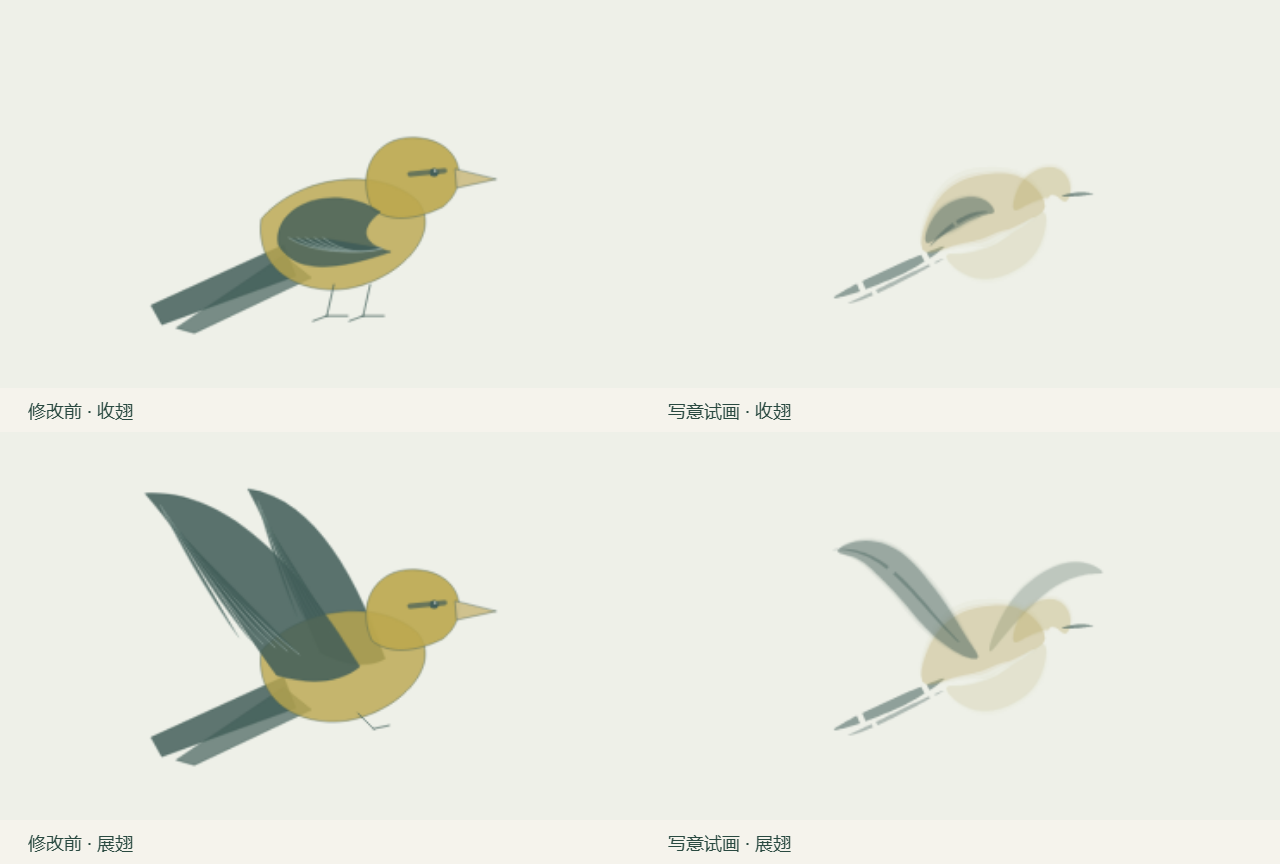
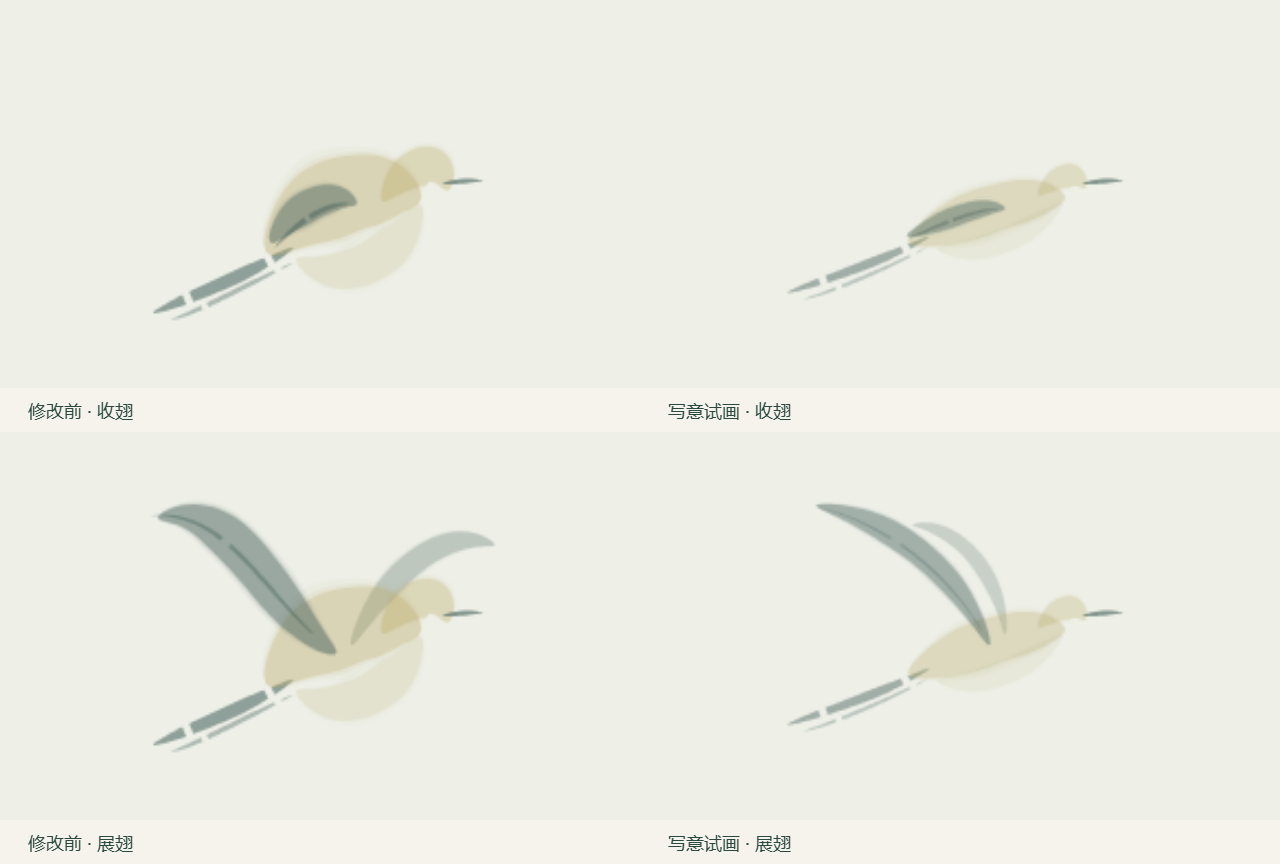
Slim ink bird and sweep wings back from fixed shoulders

diff --git a/experiments/imagery-library/drawing/tools/oriole.js b/experiments/imagery-library/drawing/tools/oriole.js
@@ -34,31 +34,33 @@ window.PoemDrawing.register({
       stroke(v,width,color,opacity*.62,salt+.6);
     }
     function wing(flap,far=false){
-      p.push();p.rotate(flap);
-      if(far)wash([2,-8,15,-38,40,-65,65,-56],5.8,ctx.palette.ink,80,state.phase);
+      // Both wings sweep back from fixed shoulders. Rotate at the attachment,
+      // rather than swinging two long strokes around the body's center.
+      p.push();p.translate(far?8:1,far?-13:-8);p.rotate(flap);
+      if(far)wash([0,0,-3,-26,-23,-49,-44,-48],3.6,ctx.palette.ink,62,state.phase);
       else{
-        wash([-5,-4,-34,-20,-53,-73,-88,-62],10.2,ctx.palette.ink,153,state.phase+1);
-        stroke([-12,-9,-40,-32,-58,-67,-91,-63],1.05,ctx.palette.ink,105,state.phase+2,true);
+        wash([0,0,-16,-33,-46,-55,-81,-60],6.2,ctx.palette.ink,133,state.phase+1);
+        stroke([-1,-2,-19,-32,-49,-53,-82,-60],.65,ctx.palette.ink,70,state.phase+2,true);
       }
       p.pop();
     }
     function draw(){
       p.push();p.translate(W/2,200);p.scale(ctx.options.facing==='left'?-state.scale:state.scale,state.scale);p.rotate(state.gesture);
       const gold=ctx.settings.palette==='tender'?'#C4AB83':'#BDAE6B',ink=ctx.palette.ink;
-      const moving=ctx.options.pose==='spread'&&ctx.options.motion==='flap',flap=moving?Math.sin(ctx.time*4+state.phase)*.2:0;
+      const moving=ctx.options.pose==='spread'&&ctx.options.motion==='flap',flap=moving?Math.sin(ctx.time*4+state.phase)*.12:0;
       // Tail tapers into paper rather than ending in two outlined rectangles.
-      stroke([-24,9,-43,21,-64*state.tail,32,-83*state.tail,41],3.2,ink,140,state.phase,true);
-      stroke([-24,16,-45,27,-62*state.tail,39,-75*state.tail,44],1.25,ink,96,state.phase+1,true);
+      stroke([-26,4,-45,15,-66*state.tail,24,-86*state.tail,32],2.2,ink,115,state.phase,true);
+      stroke([-27,9,-46,20,-65*state.tail,30,-79*state.tail,35],.9,ink,75,state.phase+1,true);
       if(ctx.options.pose==='spread')wing(-flap*.6,true);
       // Head is implied by the rising end of the same wash, without a circle.
-      wash([-35,12,-16,-17,11,-24,33,-15],19,gold,119,state.phase);
-      wash([-22,14,1,27,25,10,33,-13],10,gold,55,state.phase+1);
-      wash([16,-14,27,-34,43,-36,45,-20],9,gold,112,state.phase+2);
+      wash([-35,7,-14,-4,17,-18,35,-16],11.5,gold,96,state.phase);
+      wash([-22,9,-3,13,20,1,34,-14],5.5,gold,32,state.phase+1);
+      wash([23,-17,32,-28,40,-29,44,-21],5.5,gold,86,state.phase+2);
       if(ctx.options.pose==='spread')wing(flap);
       else{
-        wash([4,-12,-8,-20,-27,-7,-34,7],7.5,ink,146,state.phase+2);
-        stroke([1,-12,-11,-12,-24,-1,-32,9],1.3,ink,118,state.phase+3,true);
-        if(ctx.settings.density>.65)stroke([-2,-13,-13,-10,-23,0,-31,6],.65,ink,58,state.phase+4,true);
+        wash([8,-10,-3,-13,-22,-2,-36,4],4.5,ink,128,state.phase+2);
+        stroke([5,-10,-7,-9,-24,0,-35,5],.9,ink,90,state.phase+3,true);
+        if(ctx.settings.density>.65)stroke([3,-10,-10,-8,-24,1,-34,4],.45,ink,45,state.phase+4,true);
       }
       stroke([43,-23,49,-24,54,-25,61,-25],1.1,ink,163,state.phase+3);
       p.pop();

diff --git a/experiments/imagery-library/progress-data.js b/experiments/imagery-library/progress-data.js
@@ -374,7 +374,7 @@ window.PoemProgress = {
         "tools": [
           "oriole"
         ],
-        "available": "单只淡墨莺意：头身融为浅黄墨面，几笔提示翼、尾与喙，不刻画眼、足或逐根羽毛；收翅、展翅、朝向与微动可选。",
+        "available": "单只淡墨莺意：收长的浅黄墨面、后掠细翼与几笔尾喙；不刻画眼、足或逐根羽毛，收翅、展翅、朝向与肩部微动可选。",
         "remaining": "待审美与形态辨识确认；不是全部古诗莺的物种鉴定。尚无鸟鸣、群体数量、栖枝或跨物体作用。",
         "needs_context": false,
         "presets": {

diff --git a/experiments/imagery-library/意象目录.md b/experiments/imagery-library/意象目录.md
@@ -84,7 +84,7 @@
 | 草 | 2,128 | 基础可画 | 固定草簇、细长叶片与局部风响应。 [草 · 露 · 霜](index.html?tool=grass#grass) | 待审美确认；地表扩展与其他草种尚未制作。 | 形态：草叶簇与地表组织；不以通用枝树替代。 |
 | 霜 | 1,541 | 基础可画 | 共用静止霜纹与结晶笔触，支持草叶、叶面、枝条、石面和无载体局部试画；不作为飘雪。 [露 · 霜附着](index.html?tool=surface-weather&surface=frost&carrier=branch#surface-weather)、[草 · 露 · 霜](index.html?tool=grass&surface=frost#grass) | 待审美确认；任意地表和其他载体尚未支持，未从诗句自动匹配附着对象，也无霜层形成过程。 | 附着：附着覆层，不默认持续飘落。 |
 | 竹 | 1,480 | 基础可画 | 竹竿分节、侧枝与窄叶簇，叶簇响应风。 [竹](index.html?tool=bamboo#bamboo) | 待审美与形态辨识确认；尚未区分竹种或生长过程。 | 变体：节、竿、窄叶需要独立规则，可共享局部枝叶方法。 |
-| 莺 | 1,435 | 基础可画 | 单只淡墨莺意：头身融为浅黄墨面，几笔提示翼、尾与喙，不刻画眼、足或逐根羽毛；收翅、展翅、朝向与微动可选。 [莺形](index.html?tool=oriole&pose=folded&motion=still#oriole) | 待审美与形态辨识确认；不是全部古诗莺的物种鉴定。尚无鸟鸣、群体数量、栖枝或跨物体作用。 | 变体：共用鸟体与运动骨架，保留物种名；不靠标签宣称已辨认。 |
+| 莺 | 1,435 | 基础可画 | 单只淡墨莺意：收长的浅黄墨面、后掠细翼与几笔尾喙；不刻画眼、足或逐根羽毛，收翅、展翅、朝向与肩部微动可选。 [莺形](index.html?tool=oriole&pose=folded&motion=still#oriole) | 待审美与形态辨识确认；不是全部古诗莺的物种鉴定。尚无鸟鸣、群体数量、栖枝或跨物体作用。 | 变体：共用鸟体与运动骨架，保留物种名；不靠标签宣称已辨认。 |
 | 兰 | 1,316 | 待制作 | 已有通用花瓣方法可复用，但尚无该花种的专门结构。  | 花与长叶可分层组织；不直接等同于草。 | 组合：花与长叶可分层组织；不直接等同于草。 |
 | 马 | 1,280 | 待制作 | 尚无该条目的专用形态试画。  | 需要独立身体结构和姿态，暂缓专门绘制。 | 形态：需要独立身体结构和姿态，暂缓专门绘制。 |
 | 舟 | 1,250 | 基础可画 | 独立船体、轻微起伏、船首船尾与甲板锚点。 [舟](index.html?tool=boat#boat) | 待审美确认；帆、桨、人物及真正承载未实现。 | 合并：与船共用基础舟船单元；大小、用途、帆桨按原文和艺术选择细化。 |

diff --git a/experiments/imagery-library/drawing/README.md b/experiments/imagery-library/drawing/README.md
@@ -108,7 +108,9 @@ flowchart TD
 
 `oriole.js` 为本项目编写，不复制外部轮廓或鸟类图片。初版圆头、眼、足和逐根羽线过于具体，按用户反馈改为淡墨莺意：头身融为浅黄墨面，深翼、尾和喙只用几笔提示，省略眼、足、完整外轮廓和细羽，保留纸面间隙。收翅／展翅、左右朝向与展翅局部微动仍可选择。这是姿态与墨色的艺术约定，不是物种鉴定，仍待用户审美确认。
 
-墨面由局部曲线与渐细笔触生成，几何只在固定种子重置时更新；静止模式不随帧随机抖动。对照图见 `../oriole-style-comparison.png`，左为提交 `ac9c929` 的初版，右为当前试画；同一种子、配色与视图尺度。`compare-study.mjs oriole ac9c929` 可重建该本地代码对照，无模型调用。
+墨面由局部曲线与渐细笔触生成，几何只在固定种子重置时更新；静止模式不随帧随机抖动。用户继续反馈偏胖、展翅奇怪后，头身墨面收窄、腹部叠色减淡；两翼从各自肩部向后掠，近翼略长、远翼短而淡，微动以肩部为转轴并缩小幅度，不绕躯干中心摆动。
+
+对照图见 `../oriole-style-comparison.png`，左为提交 `c3c6164` 的上一版淡墨画法，右为当前收瘦、调整翼姿后的试画；同一种子、配色与视图尺度。`compare-study.mjs oriole c3c6164` 可重建该本地代码对照，无模型调用。
 
 主体固定一只，不自动加栖枝、同伴或鸣声，改变疏密不增减鸟数。默认收翅静止；微动只在显式展翅与微动同时选中时生效，是观看试验，不是完整飞行动力学。
 

diff --git a/experiments/imagery-library/progress-changelog.md b/experiments/imagery-library/progress-changelog.md
@@ -1,5 +1,11 @@
 # 本轮意象扩展记录
 
+## 2026-10-19：莺身收瘦、双翼后掠
+
+按“有点胖，稍微瘦一点轻盈一点，展翅的翅膀有点奇怪”的反馈，缩窄头身与腹部墨面、减轻叠色，尾笔收细；两翼改从肩部向后掠，近翼稍长、远翼短而淡，局部微动绕肩部旋转并减小幅度。没有添回眼、足和羽毛细节，工具与进度分类数量不变。
+
+当前 `oriole-style-comparison.png` 左侧为上一版淡墨画法 `c3c6164`，右侧为本次修改，保持同一种子、配色与视图尺度。代码为本项目编写，无外部下载或模型调用。
+
 ## 2026-10-19：莺形收为淡墨试画
 
 按“莺也太具体了，写意一点”的反馈，省略圆头硬边、眼和足、逐根羽线及完整外轮廓；头身融为浅黄墨面，用几笔深翼、尾、喙提示姿态，保留纸面间隙。收翅／展翅、朝向与局部微动仍可选，同种子可重复出图。工具和进度分类数量不变。
